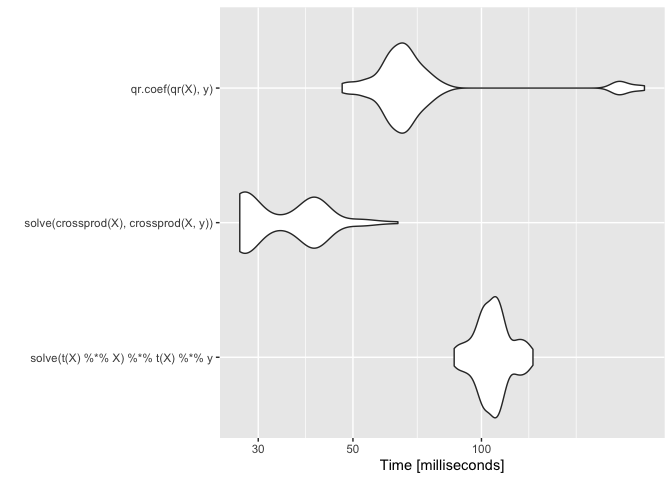
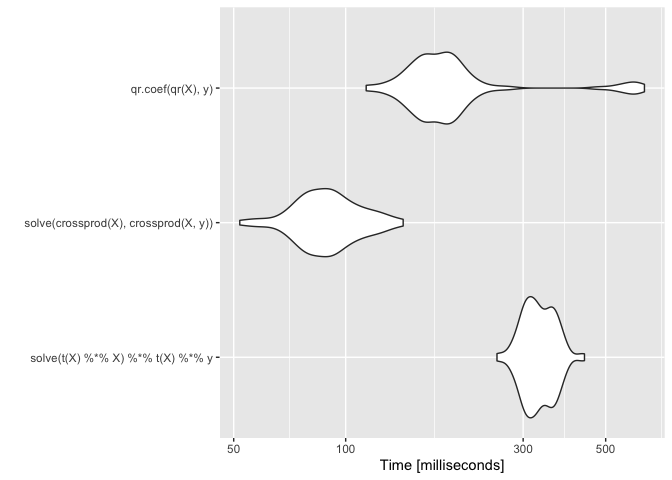
Update

diff --git a/notes/opt_linear_regression.md b/notes/opt_linear_regression.md
@@ -21,6 +21,8 @@ Logarithms
 Univariate normal distribution with mean *μ* and variance
 *σ*<sup>2</sup> is
 
+$f(x\|\\mu, \\sigma^2)=\\frac{1}{\\sqrt{2\\pi\\sigma}}e^{-\\frac{1}{2\\sigma^2}(x-\\mu)^2}$
+
 and in `R` we can compute this value as
 
     dnorm(0, mean=0, sd=1); dnorm(0)
@@ -59,12 +61,16 @@ Linear Regression
 
 We express the linear regression in matrix form as,
 
+*y* = *X**β* + *ε*
+
 Were *y* is a vector of size *n* × 1 of observed response, *X* is the
 *n* × *p* predictor matrix, *β* is the *p* × 1 coefficient vector, and
 *ε* is the *n* × 1 error vector.
 
 To estimate *β* (via maximum likelihood or least square), is often
 written in matrix form as
+
+*β̂* = (*X*′*X*)<sup> − 1</sup>*X*′*y*
 
 Which could be estimated in `R` using `solve` to extract the inverse of
 the cross product matrix.
@@ -87,6 +93,7 @@ Computationally, this is very expensive!
 <div class="alert alert-info">
 
 Quick look of *inverse matrixes* to understand the following equation:
+*β̂* = (*X*′*X*)<sup> − 1</sup>*X*′*y*
 
 First, recall that not all square matrixes are inversible, and that
 there are some properties of the inverse matrix such as:
@@ -97,11 +104,59 @@ there are some properties of the inverse matrix such as:
 
 Let use an example to disentangle some of the properties! First,
 
+$$
+A = 
+\\begin{pmatrix}
+a & b \\\\
+c & d
+\\end{pmatrix}
+$$
+
 and
+
+$$
+A^{-1} = 
+\\begin{pmatrix}
+x\_{1} & x\_{2} \\\\
+y\_{1} & y\_{2}
+\\end{pmatrix}
+$$
 
 we also know that
 
+$$
+I = 
+\\begin{pmatrix}
+1 & 0 \\\\
+0 & 1
+\\end{pmatrix}
+$$
+
 All together and considering (1) we have
+
+$$
+AA^{-1}=I=A^{-1}A=
+\\begin{pmatrix}
+a & b \\\\
+c & d
+\\end{pmatrix}
+\\begin{pmatrix}
+x\_{1} & x\_{2} \\\\
+y\_{1} & y\_{2}
+\\end{pmatrix} =
+\\begin{pmatrix}
+1 & 0 \\\\
+0 & 1
+\\end{pmatrix} =
+\\begin{pmatrix}
+x\_{1} & x\_{2} \\\\
+y\_{1} & y\_{2}
+\\end{pmatrix}
+\\begin{pmatrix}
+a & b \\\\
+c & d
+\\end{pmatrix}
+$$
 
 Now, solving the **linear system of equation** we have
 
@@ -117,9 +172,17 @@ operations** we have for:
 
 That,
 
+$$
+y\_{2}=\\frac{-a}{b}x\_{2}
+$$
+
 and
 
 1.  *c**x*<sub>1</sub> + *d**y*<sub>1</sub> = 0
+
+$$
+y\_{1}=\\frac{-c}{d}x\_{1}
+$$
 
 Now,
 
@@ -127,19 +190,60 @@ Now,
 
 we could replace some terms in such a way that,
 
+$$
+ax\_{1}-\\frac{bc}{d}x\_{1}=1
+$$
+
 and
+
+$$
+x\_{1}=\\frac{d}{ad-bc}
+$$
 
 then
 
+$$
+y\_{1}=\\frac{-c}{ad-bc}
+$$
+
 Also,
+
+$$
+\\frac{c}{b}x\_{2}-\\frac{ad}{b}x\_{2}=1
+$$
 
 is expressed as
 
+$$
+x\_{2}=\\frac{b}{bc-ad}
+$$
+
 and
+
+$$
+y\_{2}=\\frac{a}{ad-bc}
+$$
 
 Puting all together we have the inverse of the matrix
 
+$$
+A^{-1}= \\frac{1}{ad-bc}
+\\begin{pmatrix}
+d & -b \\\\
+-c & a
+\\end{pmatrix}
+$$
+
 And, considering that the determinant is,
+
+$$
+\|A\| = 
+\\begin{vmatrix}
+a & b \\\\
+c & d
+\\end{vmatrix} = 
+ad-bc
+$$
 
 If the resulting value of *a**d* − *b**c* = 0, then the matrix is not
 invertible (is singular or degenerate)
@@ -154,6 +258,8 @@ In `R` all this calculation is just a simple function. For example,
 
 A better option that is less computationally demanding is re-arranging
 the terms in the following way:
+
+*X*′*X**β* = *X*′*y*
 
 Which, gives the same result
 
@@ -273,10 +379,10 @@ consuming
       gaussian = solve(crossprod(X), crossprod(X, y))
       ) %>% summary(unit = "ms") %>% knitr::kable(format = "markdown")
 
-| expr     |      min |        lq |      mean |    median |        uq |       max | neval | cld |
-|:---------|---------:|----------:|----------:|----------:|----------:|----------:|------:|:----|
-| inverse  | 85.90056 | 102.02329 | 111.65989 | 106.27773 | 115.10046 | 280.71602 |   100 | b   |
-| gaussian | 27.34068 |  27.84081 |  34.13807 |  33.34719 |  40.46863 |  50.96023 |   100 | a   |
+| expr     |       min |        lq |     mean |    median |       uq |      max | neval | cld |
+|:---------|----------:|----------:|---------:|----------:|---------:|---------:|------:|:----|
+| inverse  | 243.77115 | 311.09968 | 336.8660 | 333.38371 | 354.6478 | 484.8824 |   100 | b   |
+| gaussian |  55.26799 |  85.01062 |  99.1561 |  95.98802 | 112.3274 | 166.0683 |   100 | a   |
 
 On the other hand, the Gaussian elimination would breaks down when there
 is collinearity in the *X* matrix. Meaning that the column *X* would be
@@ -370,7 +476,15 @@ the **QR decomposition**.
 Knowing that *X* can be decomposed as *X* = *Q**R*, the linear
 regression
 
+*X*′*X**β* = *X*′*y*
+
 can be writted as
+
+$$
+R'Q'QR'\\beta = R'Q'y \\\\
+R'R\\beta = R'Q'y \\\\
+R\\beta = Q'y
+$$
 
 Considering that *Q*′*Q* = *I*, now we have a simpler equation that does
 not longer require to compute the cross product. Also, due the QR
@@ -577,9 +691,9 @@ Comparing both approaches
     library(microbenchmark)
     microbenchmark(quad.naive(z, S), quad.chol(z, S))
     #> Unit: milliseconds
-    #>              expr      min       lq     mean   median       uq       max neval
-    #>  quad.naive(z, S) 2.773436 3.050431 4.206812 3.438075 5.143532  8.469218   100
-    #>   quad.chol(z, S) 1.153141 1.415717 2.234433 1.471803 2.476978 26.782875   100
+    #>              expr      min       lq      mean   median       uq      max neval
+    #>  quad.naive(z, S) 4.689875 5.817352 10.766912 7.626964 10.95390 55.60976   100
+    #>   quad.chol(z, S) 2.061270 2.492571  6.277961 3.370729  7.05392 47.46013   100
     #>  cld
     #>    b
     #>   a
